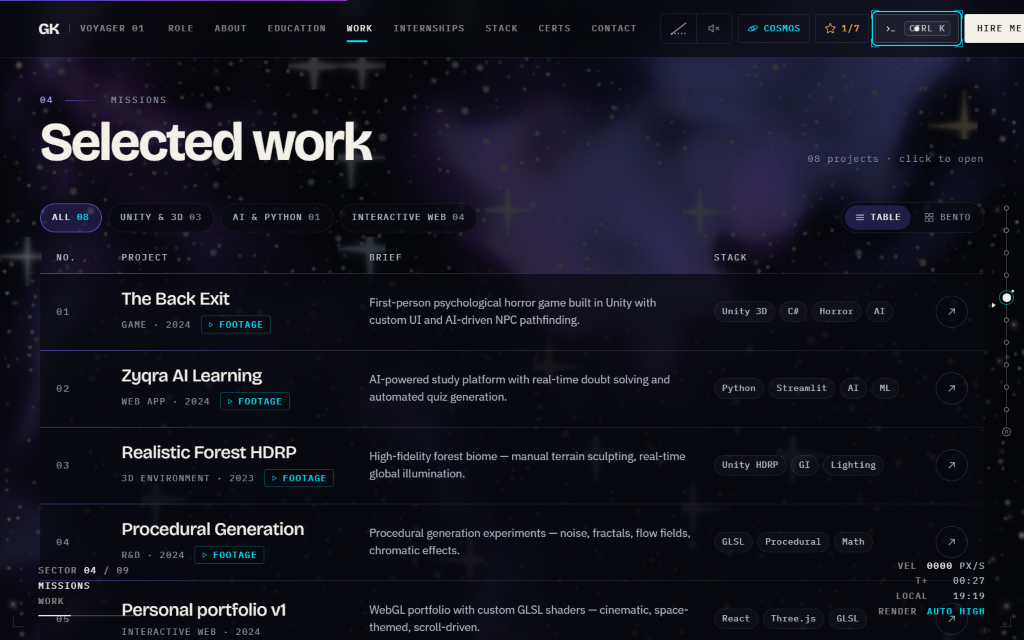
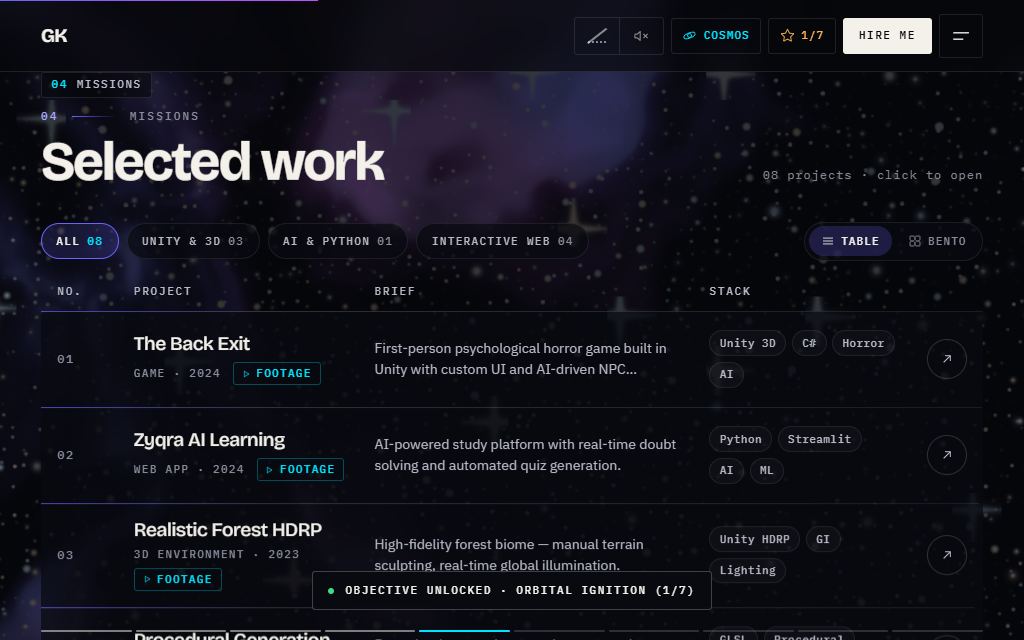
Update portfolio with GitHub repository links, RideWise public repo, and Portfolio 4.1 showcase

diff --git a/js/flow.js b/js/flow.js
@@ -34,6 +34,7 @@
       next: svg('<path d="M9.5 5.5L16 12l-6.5 6.5"/>'),
       play: svg('<path d="M8 5.5v13l11-6.5z"/>'),
       ext: svg('<path d="M8 16l8.5-8.5M9.5 7.5h7v7"/>'),
+      repo: svg('<circle cx="6.5" cy="5.5" r="2"/><circle cx="6.5" cy="18.5" r="2"/><circle cx="17.5" cy="8.5" r="2"/><path d="M6.5 7.5v9M17.5 10.5a6 6 0 0 1-6 6h-5"/>'),
       down: svg('<path d="M12 4.5v11M7 11l5 5 5-5M5.5 19.5h13"/>'),
       chev: svg('<path d="M9 6l6 6-6 6"/>'),
       enter: svg('<path d="M18.5 6v6.5h-12M10 9l-3.5 3.5L10 16"/>'),
@@ -318,7 +319,7 @@
         '<div class="briefing-veil" data-briefing="close" data-cursor="Close" data-sfx="none" data-sfx-hover="none"></div>' +
         '<div class="briefing-panel" role="dialog" aria-modal="true" aria-labelledby="briefingTitle" aria-describedby="briefingDesc" tabindex="-1">' +
           '<header class="briefing-bar">' +
-            '<p class="briefing-strip"><span class="briefing-kind"></span><span class="briefing-count"></span></p>' +
+            '<p class="briefing-strip"><span class="briefing-kind"></span><span class="briefing-count"></span><span class="briefing-here" hidden><i class="dot" aria-hidden="true"></i>You are here</span></p>' +
             '<div class="briefing-tools">' +
               tool('prev', 'Previous entry', ICON.prev) + tool('next', 'Next entry', ICON.next) +
               '<i aria-hidden="true"></i>' + tool('close', 'Close briefing', ICON.close) +
@@ -338,7 +339,7 @@
         '</div>';
       const pick = sel => qs(sel, bf.root);
       bf.panel = pick('.briefing-panel'); bf.scroll = pick('.briefing-scroll');
-      bf.kind = pick('.briefing-kind'); bf.count = pick('.briefing-count');
+      bf.kind = pick('.briefing-kind'); bf.count = pick('.briefing-count'); bf.here = pick('.briefing-here');
       bf.prev = pick('[data-briefing="prev"]'); bf.next = pick('[data-briefing="next"]');
       bf.media = pick('.briefing-media'); bf.meta = pick('.briefing-meta');
       bf.title = pick('.briefing-title'); bf.desc = pick('.briefing-desc');
@@ -423,6 +424,7 @@
       bf.item = item;
       bf.kind.textContent = kind.word;
       bf.count.textContent = n > 1 ? '· ' + pad(bf.index + 1) + ' / ' + pad(n) : '';
+      if (bf.here) bf.here.hidden = !item.isCurrent;
       bf.prev.hidden = bf.next.hidden = n < 2;
       bf.meta.textContent = item.meta || '';
       bf.desc.textContent = item.desc || item.short || '';
@@ -433,9 +435,15 @@
 
       const link = (href, label, icon, primary) => '<a class="btn' + (primary ? ' btn-primary' : '') + '" href="' + esc(href) + '" target="_blank" rel="noopener" data-spot><span>' + label + '</span>' + icon + '</a>';
       let acts = '';
-      if (item.download) acts += link(item.download, 'Download', ICON.down, true);
-      if (item.link) acts += link(item.link, 'Visit website', ICON.ext, !item.download);
-      if (kind.doc && item.image) acts += link(item.image, 'Open full size', ICON.ext, false);
+      if (item.isCurrent) {
+        if (item.repo) acts += link(item.repo, 'GitHub Repo', ICON.repo, true);
+        if (item.link) acts += link(item.link, 'Visit website', ICON.ext, !item.repo);
+      } else {
+        if (item.download) acts += link(item.download, 'Download', ICON.down, true);
+        if (item.link) acts += link(item.link, 'Visit website', ICON.ext, !item.download);
+        if (item.repo) acts += link(item.repo, 'GitHub Repo', ICON.repo, !item.download && !item.link);
+        if (kind.doc && item.image) acts += link(item.image, 'Open full size', ICON.ext, false);
+      }
       bf.actions.innerHTML = acts;
       bf.actions.hidden = !acts;
 
@@ -576,7 +584,7 @@
       const brief = item => from => modal.open(item, { from });
 
       SECTORS.forEach(s => add('Navigate', 'sector', s.label, pad(s.index) + ' · ' + s.name, s.name + ' ' + s.key + ' sector go to', () => navTo(s.index)));
-      (d.projects || []).forEach(p => add('Missions', 'mission', p.title, p.meta, [p.listTitle, p.type, 'project'].concat(p.tags || []).join(' '), brief(p)));
+      (d.projects || []).forEach(p => add('Missions', 'mission', p.title, p.meta, [p.listTitle, p.type, 'project'].concat(p.tags || [], p.repo ? ['github', 'open source', 'repository'] : [], p.isCurrent ? ['this site', 'current', 'voyager', 'you are here'] : []).join(' '), brief(p)));
       (d.education || []).forEach(x => add('Records', 'record', x.title, 'Education · ' + (x.period || ''), [x.short, x.org, 'school college'].concat(x.tags || []).join(' '), brief(x)));
       (d.internships || []).forEach(x => add('Records', 'record', x.title, 'Deployment · ' + (x.org || ''), [x.org, x.place, 'internship'].concat(x.tags || []).join(' '), brief(x)));
       (d.certs || []).forEach(x => add('Records', 'record', x.title, 'Certificate · ' + (x.meta || ''), [x.short, 'certification credential'].concat(x.tags || []).join(' '), brief(x)));

diff --git a/js/data.js b/js/data.js
@@ -5,7 +5,7 @@
    the same objects — edit content in ONE place.
 
    Item shape understood by GK.modal.open(item):
-   { kind, title, meta, desc, tags[], image?, thumb?, video?, link?, download?, icon?, art? }
+   { kind, title, meta, desc, tags[], image?, thumb?, video?, link?, repo?, download?, isCurrent?, icon?, art? }
    `image` is the full-size file (modal); `thumb` is a ≤720px JPEG for lists, cards and hover previews.
    ═══════════════════════════════════════════════════════════════ */
 (function () {
@@ -132,6 +132,7 @@
         tags: ['HTML', 'CSS', 'JavaScript'],
         listTags: ['HTML', 'CSS', 'JavaScript'],
         link: 'https://gokulakumarans2.netlify.app',
+        repo: 'https://github.com/sGokulaKumaran/Portfolio-version-2.0',
       },
       {
         kind: 'project', id: 'ridewise', category: 'web', num: '07',
@@ -144,18 +145,20 @@
         tags: ['Java', 'Spring Boot', 'React', 'WebSocket', 'Full-Stack', 'GPS Telemetry'],
         listTags: ['Java', 'Spring Boot', 'React', 'WebSocket'],
         link: 'https://ride-wise.pages.dev',
+        repo: 'https://github.com/sGokulaKumaran/Ride-Wise',
       },
       {
-        kind: 'project', id: 'portfolio-v4', category: 'web', num: '08',
-        title: 'Sci-Fi Story Portfolio', listTitle: 'Personal portfolio v4',
+        kind: 'project', id: 'portfolio-v4-1', category: 'web', num: '08', isCurrent: true,
+        title: 'Voyager 01 — Portfolio v4.1', listTitle: 'Voyager 01 — Portfolio v4.1',
         meta: 'Interactive Web · 2026', type: 'Interactive Web', year: '2026',
         icon: '◉', art: 'portfolio',
-        image: 'images/projects/portfoliov4.png', thumb: 'images/thumbs/portfoliov4.jpg',
-        short: 'Cinematic scroll-story portfolio with rich animations, Web Audio sound design, and an immersive sci-fi interface.',
-        desc: 'Interactive scroll-driven portfolio blending cinematic storytelling, dynamic canvas visuals, and custom Web Audio sound effects — built cleanly without frameworks.',
-        tags: ['HTML', 'CSS', 'JavaScript', 'Web Audio', 'Interactive'],
-        listTags: ['HTML', 'CSS', 'JavaScript', 'Audio'],
-        link: 'https://gokulakumarans4.netlify.app/',
+        image: 'images/projects/portfoliov4-1.png', thumb: 'images/thumbs/portfoliov4-1.jpg',
+        short: "You're exploring it right now — a zero-framework WebGL black-hole voyage with live Web Audio synthesis and 10 sectors.",
+        desc: "You're flying through it right now. Built without frameworks or build tools (13 IIFE modules and 8 CSS layers), Voyager 01 pairs a single-pass WebGL Kerr black hole shader with generative Web Audio music, 7 explorer field objectives, and a dual-cartridge HTML5 arcade deck.",
+        tags: ['HTML5', 'CSS3', 'JavaScript', 'WebGL GLSL', 'Web Audio API', 'Zero-Build'],
+        listTags: ['WebGL GLSL', 'Web Audio', 'JavaScript', 'Zero-Build'],
+        link: 'https://gokulakumarans.pages.dev/',
+        repo: 'https://github.com/sGokulaKumaran/portfolio-4.1',
       },
     ],
 

diff --git a/css/voyage-c.css b/css/voyage-c.css
@@ -109,12 +109,29 @@ html.is-reduced .panel-work .mission-item::before { transition-delay: 0s; }
   display: flex; flex-wrap: wrap; align-items: center; gap: 0.4rem 0.75rem; margin-top: 0.5rem;
   font: 500 var(--fs-micro) / 1.2 var(--font-mono); letter-spacing: 0.12em; text-transform: uppercase; color: var(--ink-3);
 }
-.panel-work .mission-footage {
+.panel-work .mission-footage,
+.panel-work .mission-badge {
   display: inline-flex; align-items: center; gap: 0.35rem;
-  padding: 0.24rem 0.5rem 0.24rem 0.42rem; border: 1px solid rgba(0, 229, 255, 0.3); border-radius: var(--radius-sm);
+  padding: 0.24rem 0.5rem 0.24rem 0.42rem; border: 1px solid var(--line-2); border-radius: var(--radius-sm);
+  color: var(--ink-2);
+}
+.panel-work .mission-footage svg,
+.panel-work .mission-badge svg { flex: none; }
+.panel-work .mission-footage {
+  border-color: rgba(0, 229, 255, 0.3);
   color: var(--cyan);
 }
-.panel-work .mission-footage svg { flex: none; }
+.panel-work .mission-oss {
+  border-color: rgba(var(--sector-a-rgb), 0.34);
+  color: var(--violet-ink);
+}
+.panel-work .mission-here {
+  padding-left: 0.5rem;
+  border-color: rgba(61, 220, 132, 0.35);
+  background: rgba(61, 220, 132, 0.08);
+  color: var(--green);
+}
+.panel-work .mission-here .dot { width: 5px; height: 5px; }
 .panel-work .mission-desc {
   display: -webkit-box; -webkit-box-orient: vertical; -webkit-line-clamp: 2; line-clamp: 2; overflow: hidden;
   font-size: var(--fs-sm); line-height: 1.5; color: var(--ink-2);

diff --git a/js/voyage-c.js b/js/voyage-c.js
@@ -21,6 +21,7 @@
     const ICON = {
       arrow: '<svg ' + SVG + ' width="16" height="16"><path d="M7 17 17 7"/><path d="M9 7h8v8"/></svg>',
       play: '<svg ' + SVG + ' width="10" height="10"><path d="M8 5.5v13l10.5-6.5z"/></svg>',
+      repo: '<svg ' + SVG + ' width="11" height="11"><circle cx="6.5" cy="5.5" r="2"/><circle cx="6.5" cy="18.5" r="2"/><circle cx="17.5" cy="8.5" r="2"/><path d="M6.5 7.5v9M17.5 10.5a6 6 0 0 1-6 6h-5"/></svg>',
       rows: '<svg ' + SVG + ' width="14" height="14"><path d="M4 7h16M4 12h16M4 17h16"/></svg>',
       grid: '<svg ' + SVG + ' width="14" height="14"><rect x="3.5" y="3.5" width="7" height="7" rx="1"/><rect x="13.5" y="3.5" width="7" height="7" rx="1"/><rect x="3.5" y="13.5" width="7" height="7" rx="1"/><rect x="13.5" y="13.5" width="7" height="7" rx="1"/></svg>',
     };
@@ -90,6 +91,8 @@
                 '<span class="mission-meta">' +
                   (line ? '<span>' + esc(line) + '</span>' : '') +
                   (p.video ? '<span class="mission-footage">' + ICON.play + 'Footage</span>' : '') +
+                  (p.repo ? '<span class="mission-badge mission-oss">' + ICON.repo + 'Open Source</span>' : '') +
+                  (p.isCurrent ? '<span class="mission-badge mission-here"><i class="dot" aria-hidden="true"></i>You are here</span>' : '') +
                 '</span>' +
               '</span>' +
               '<span class="mission-desc" id="missionDesc' + i + '">' + esc(p.short || p.desc || '') + '</span>' +

diff --git a/css/flow.css b/css/flow.css
@@ -86,6 +86,14 @@ html.is-lite .briefing-veil { background: rgba(5, 6, 10, 0.94); -webkit-backdrop
 }
 .briefing-strip::before { content: ''; flex: none; width: 6px; height: 6px; border-radius: 50%; background: var(--cyan); }
 .briefing-kind { color: var(--ink); overflow: hidden; text-overflow: ellipsis; }
+.briefing-here {
+  display: inline-flex; align-items: center; gap: 0.4rem; flex: none;
+  padding: 0.24rem 0.55rem; border: 1px solid rgba(61, 220, 132, 0.35); border-radius: var(--radius-pill);
+  background: rgba(61, 220, 132, 0.08); color: var(--green); letter-spacing: 0.1em;
+}
+.briefing-here[hidden] { display: none; }
+.briefing-here .dot { width: 5px; height: 5px; }
+@media (max-width: 480px) { .briefing-strip { flex-wrap: wrap; row-gap: 0.3rem; } }
 .briefing-tools { flex: none; display: flex; align-items: center; gap: 2px; }
 .briefing-tools i { width: 1px; height: 20px; margin-inline: 6px; background: rgba(243, 241, 234, 0.10); }
 .briefing-tool {

diff --git a/docs/MECHANISMS.md b/docs/MECHANISMS.md
@@ -88,7 +88,8 @@ Rather than writing repetitive scroll/pointer scripts for every card and heading
 - **Sector 04 · Missions (`initMissions`)**:
   - **Category Filtering & View Switcher**: Filter projects live across `All (08)`, `Unity & 3D (03)`, `AI & Python (01)`, and `Interactive Web (04)`, and toggle between **Table Rows View** and **Bento Grid View** (persisted in `GK.store`).
   - **Cursor-Following Floating Preview (`#workPreview`)**: In Table mode on fine pointers, hovering any project row smoothly glides a floating `16:10` thumbnail preview alongside the cursor using damped coordinates.
-  - Clicking any project opens the full **Mission Briefing Modal (`GK.modal.open`)** with high-res imagery, tags, live links, and on-demand Cloudinary video streaming.
+  - **Direct Repository Badges & Status Indicators**: Open-source projects display an **Open Source** badge, and **Voyager 01 — Portfolio v4.1** features an active **You are here** status badge with self-referential telemetry.
+  - Clicking any project opens the full **Mission Briefing Modal (`GK.modal.open`)** with high-res imagery, tags, live deployment links, direct GitHub repository buttons, and on-demand Cloudinary video streaming.
 - **Sector 05 · Telemetry (`initTelemetry`)**:
   - Renders 4 radial SVG arc gauges (`6+ Certifications`, `8+ Projects shipped`, `2+ Internships`, `100% Dedication`) whose stroke-dashoffset animates synchronously with `data-count`.
 - **Sector 06 · Deployments (`initDeployments`)**:

diff --git a/README.md b/README.md
@@ -2,7 +2,8 @@
 
 > **"A portfolio you fly through."**  
 > A modular, zero-dependency sci-fi space voyage built in pure vanilla HTML5, CSS3, WebGL1 GLSL, and the Web Audio API—featuring a single-pass relativistic Kerr black hole shader, a real-time generative space music synthesizer, 10 interactive sectors, 7 discoverable field anomalies, and a dual-cartridge arcade deck.  
-> 🌐 **Live Production Site**: [https://gokulakumarans.pages.dev/](https://gokulakumarans.pages.dev/)
+> 🌐 **Live Production Site**: [https://gokulakumarans.pages.dev/](https://gokulakumarans.pages.dev/)  
+> 🐙 **GitHub Repository**: [https://github.com/sGokulaKumaran/portfolio-4.1](https://github.com/sGokulaKumaran/portfolio-4.1)
 
 ![Voyager 01 Hero — Sector 00 Origin](docs/screenshots/02-origin-hero.png)
 
@@ -134,6 +135,7 @@ Because Voyager 01 is engineered without build tools or external runtime depende
 **Gokula Kumaran S**  
 *Game & Full-Stack Developer — Tamil Nadu, India (`11.1271° N · 78.6569° E`)*  
 - **Live Portfolio (v4.1)**: [https://gokulakumarans.pages.dev/](https://gokulakumarans.pages.dev/)
+- **Portfolio Repository**: [sGokulaKumaran/portfolio-4.1](https://github.com/sGokulaKumaran/portfolio-4.1)
 - **GitHub**: [@sGokulaKumaran](https://github.com/sGokulaKumaran)
 - **LinkedIn**: [gokula-kumaran-s](https://www.linkedin.com/in/gokula-kumaran-s-503545328/)
 - **Instagram**: [@goku_1._38](https://www.instagram.com/goku_1._38)
